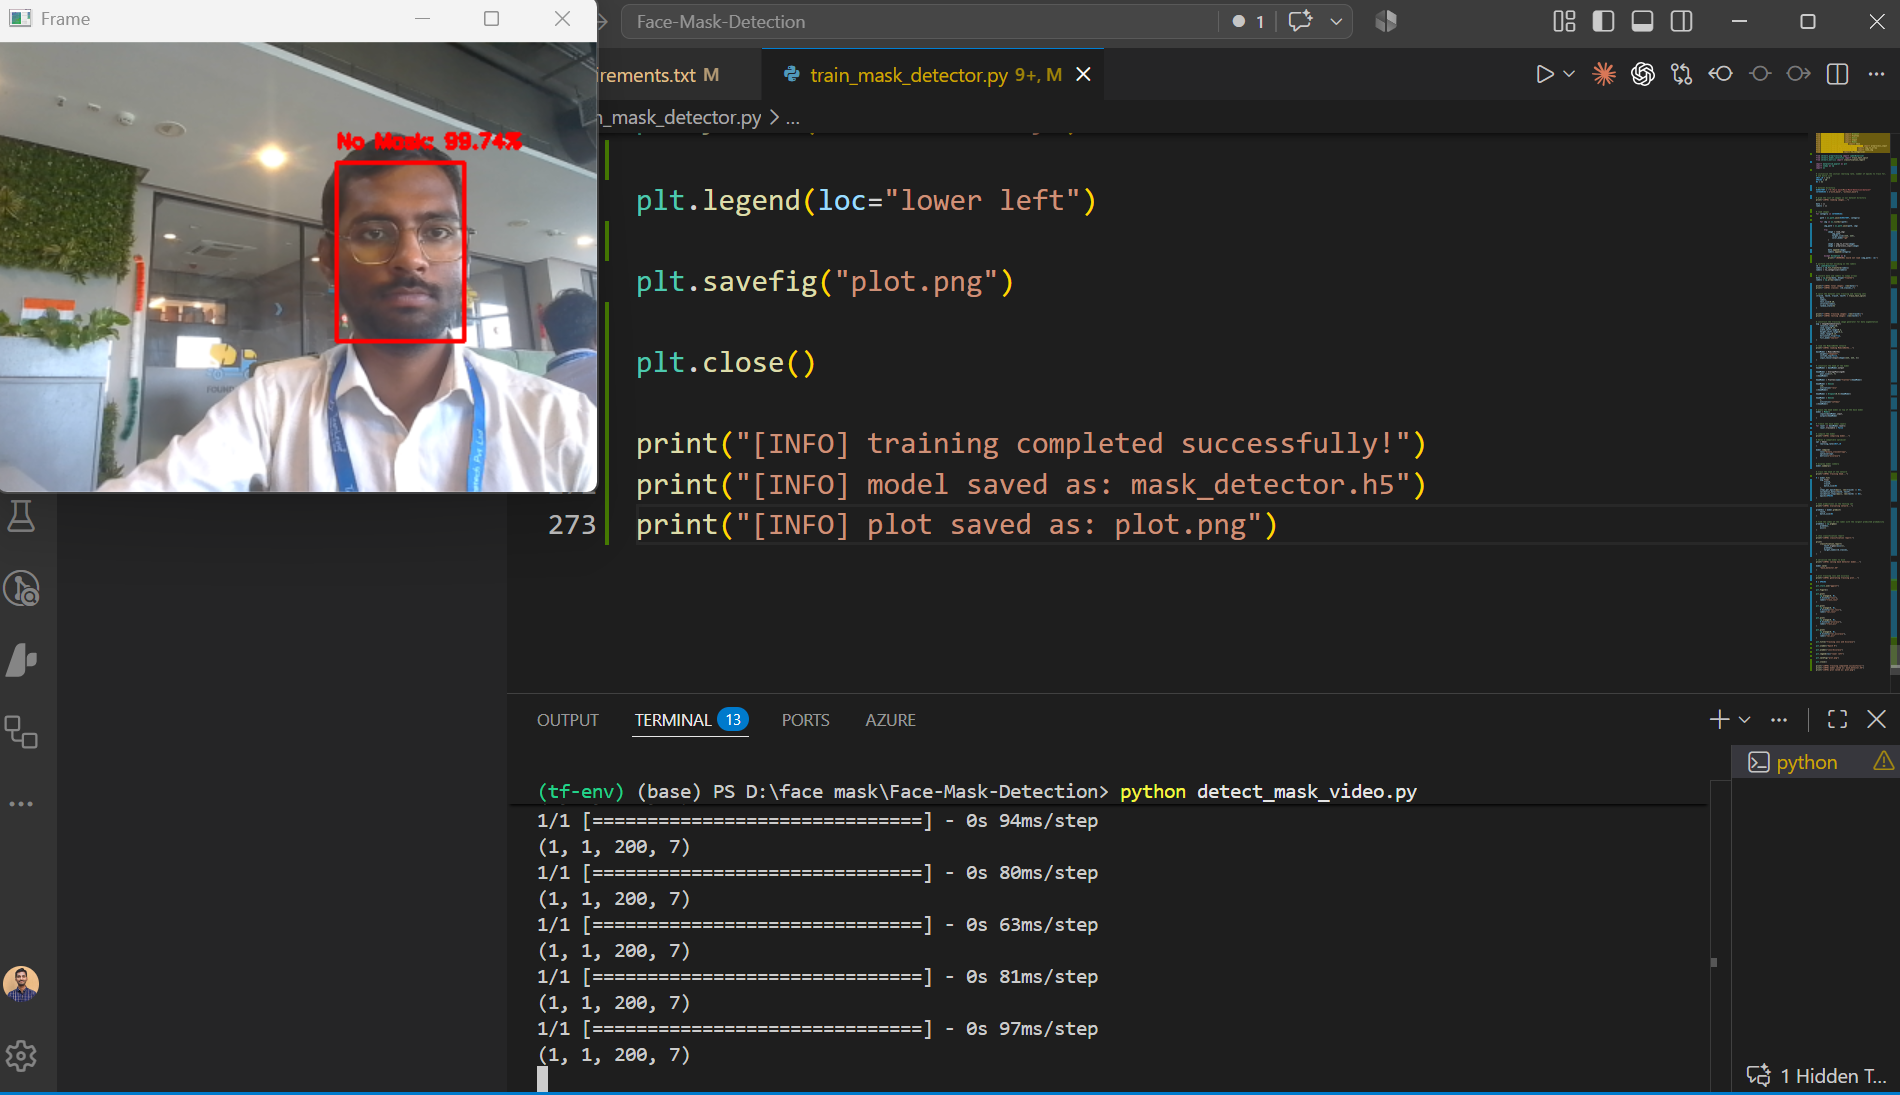
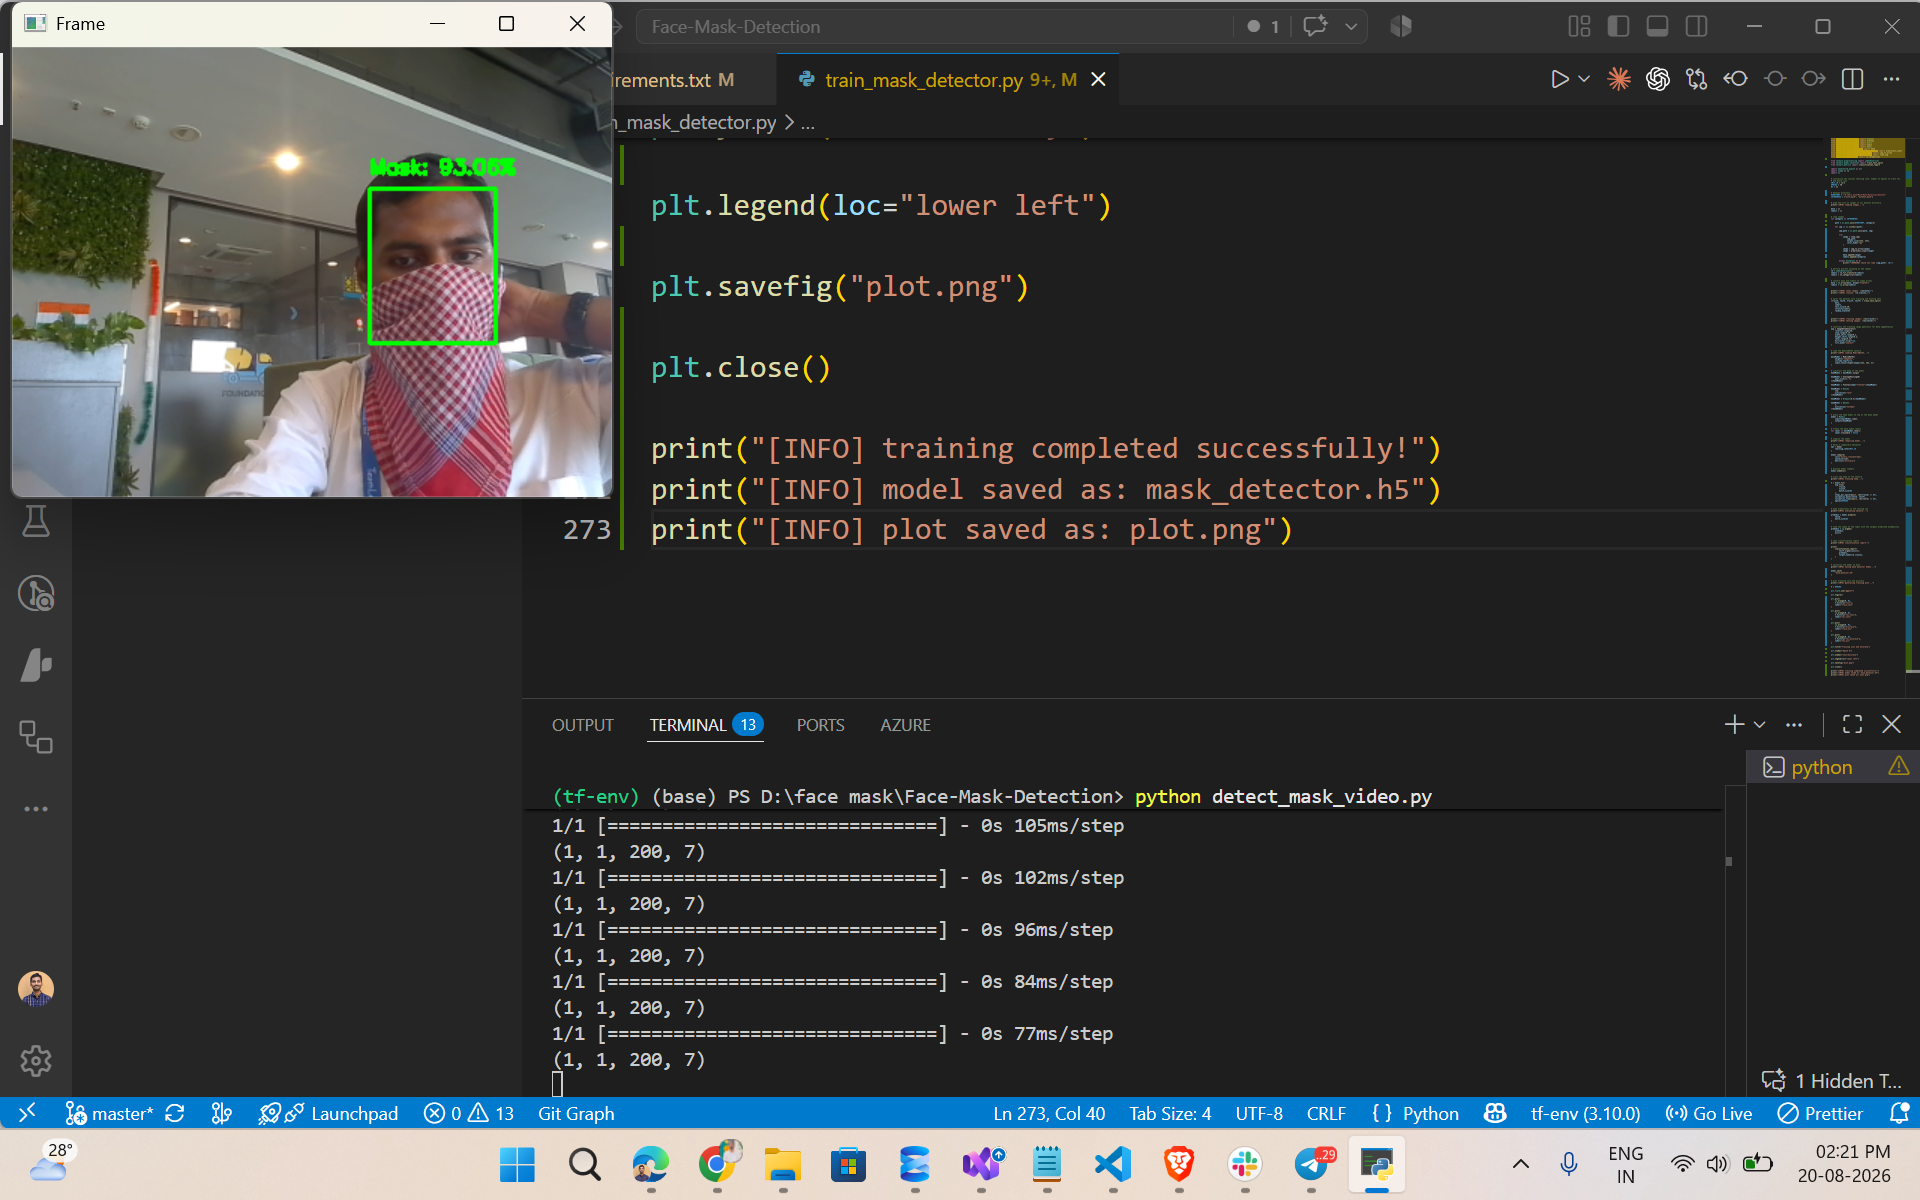
all project setup is done

diff --git a/src/data/projects.tsx b/src/data/projects.tsx
@@ -308,8 +308,8 @@ const projects: Project[] = [
   { // 01. KrishiRakshak project
     id: "krishirakshak",
     category: "AI/ML + Full Stack",
-    title: "KrishiRakshak: AI-Powered Plant Disease Detection and Pest Management",
-    src: "/assets/projects-screenshots/1.Krishi-Hackathon/1.png",
+    title: "Crop Disease And Pest Control",
+    src: "/assets/projects-screenshots/1.Krishi-Hackathon/Home.jpg",
     screenshots: ["1.png", "Disease.jpg", "Government Scheme.png", "History.jpg", "Home.jpg", "Weather Based Prediction.png"],
     live: "https://ai-docker-file-optimizer.netlify.app/",
     github:"https://github.com/Vishwajeet-Londhe/hackathon-KrishiRakshak",
@@ -344,7 +344,7 @@ const projects: Project[] = [
     id: "face-mask-detection",
     category: "Machine Learning",
     title: "Face Mask Detection",
-    src: "/assets/projects-screenshots/2.Face Mask Detection/Mask.png",
+    src: "/assets/projects-screenshots/2.Face-Mask-Detection/No Mask.png",
     screenshots: ["Mask.png", "No Mask.png", "Training Model.png", "With Mask Dataset.png", "Without Mask Dataset.png"],
     skills: {
       frontend: [
@@ -535,7 +535,7 @@ const projects: Project[] = [
   { // 05. Smart Job Tracker project
     id: "primeldh-victorreanz",
     category: "Full stack",
-    title: "5.PrimeLDH-VictorReanz",
+    title: "PrimeLDH-VictorReinz",
     src: "/assets/projects-screenshots/5.PrimeLDH-VictorReanz/Home.png",
     screenshots: ["Home.png", "Filtering.png", "Layout.png", "Login.png", "Sorting.png"],
     live: "http://victorreinz.legacydatahub.com/",
@@ -571,7 +571,7 @@ const projects: Project[] = [
   { // 06. Land use and Land Covr Mapping using Random Forest Project
     id: "savinderpurisportfolio",
     category: "Machine Learning",
-    title: "Land Use and Land Cover Mapping using Radom Forest",
+    title: "Land Use and Land Cover Mapping",
     src: "/assets/projects-screenshots/savinderpuriportfolio/01.png",
     screenshots: ["01.png", "02.png", "03.png","04.png","05.png"],
     live: "https://savinder-puri.vercel.app/",
